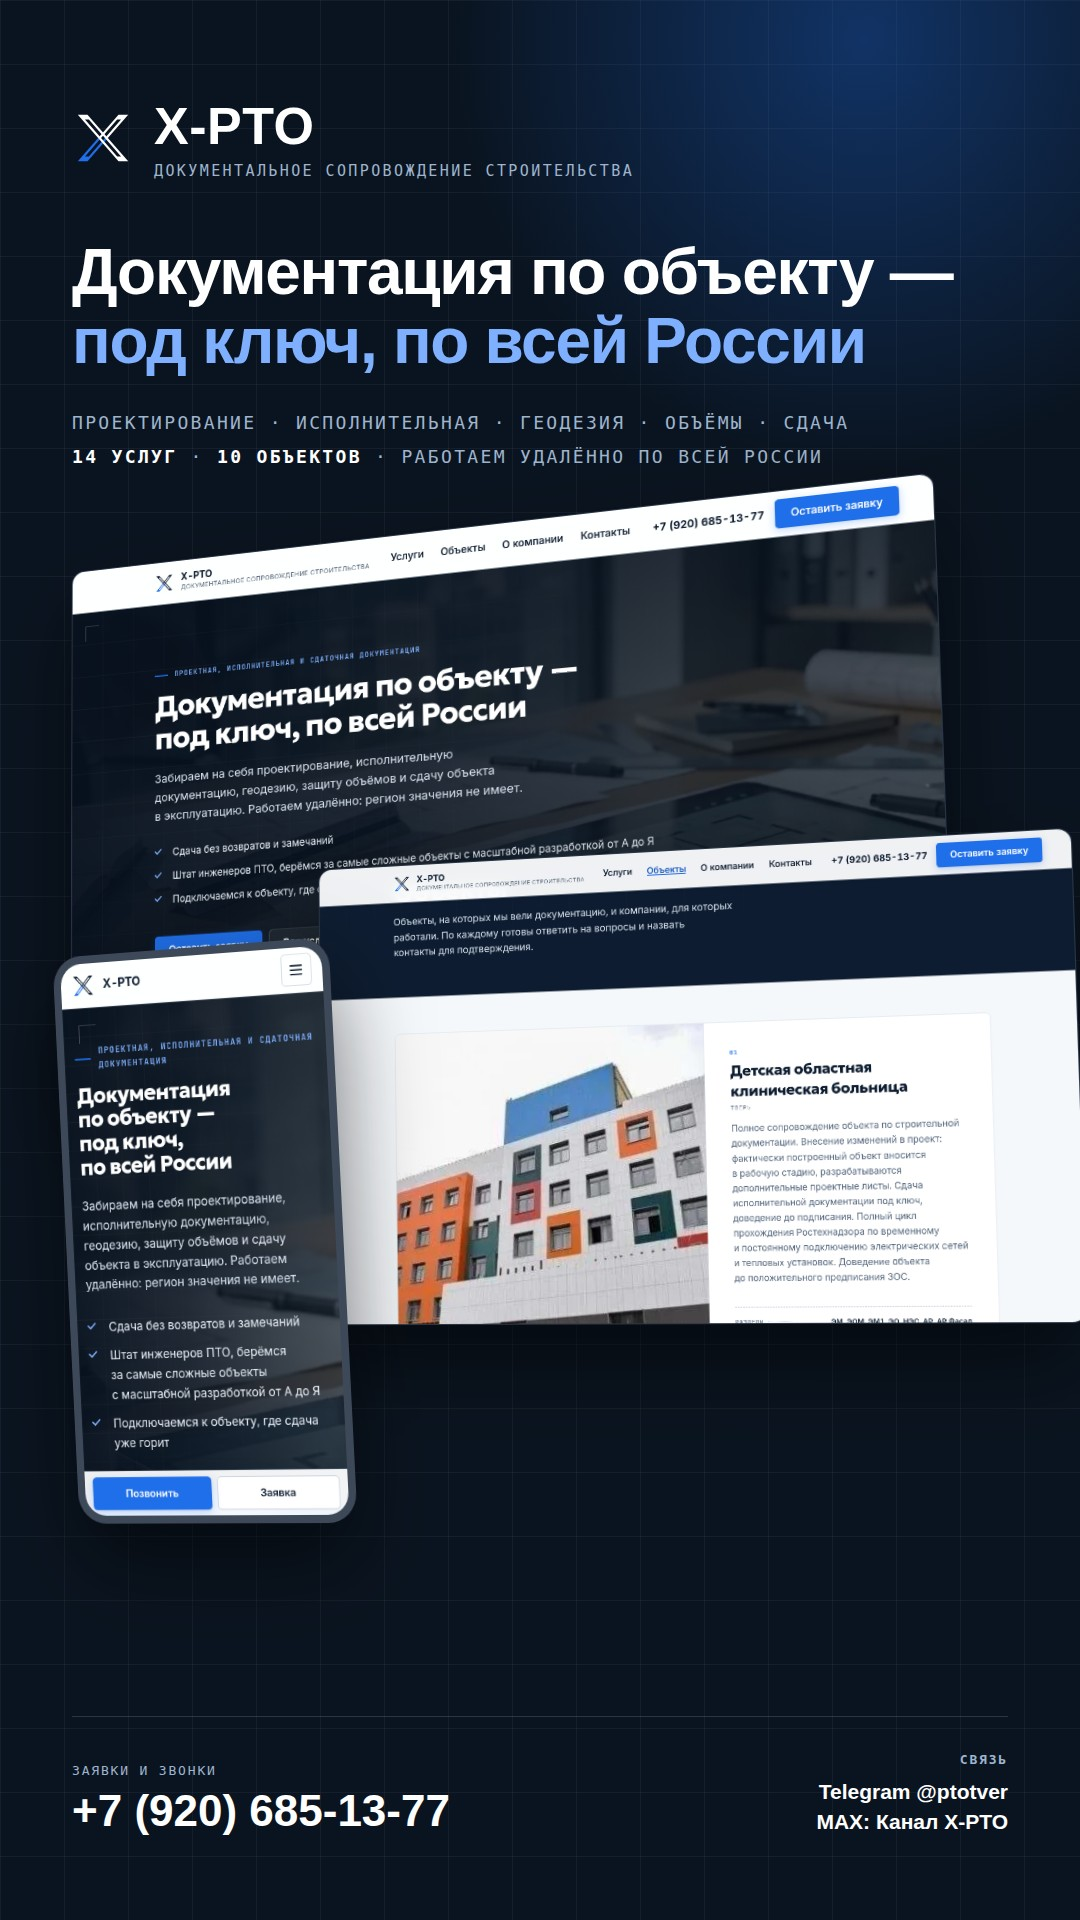
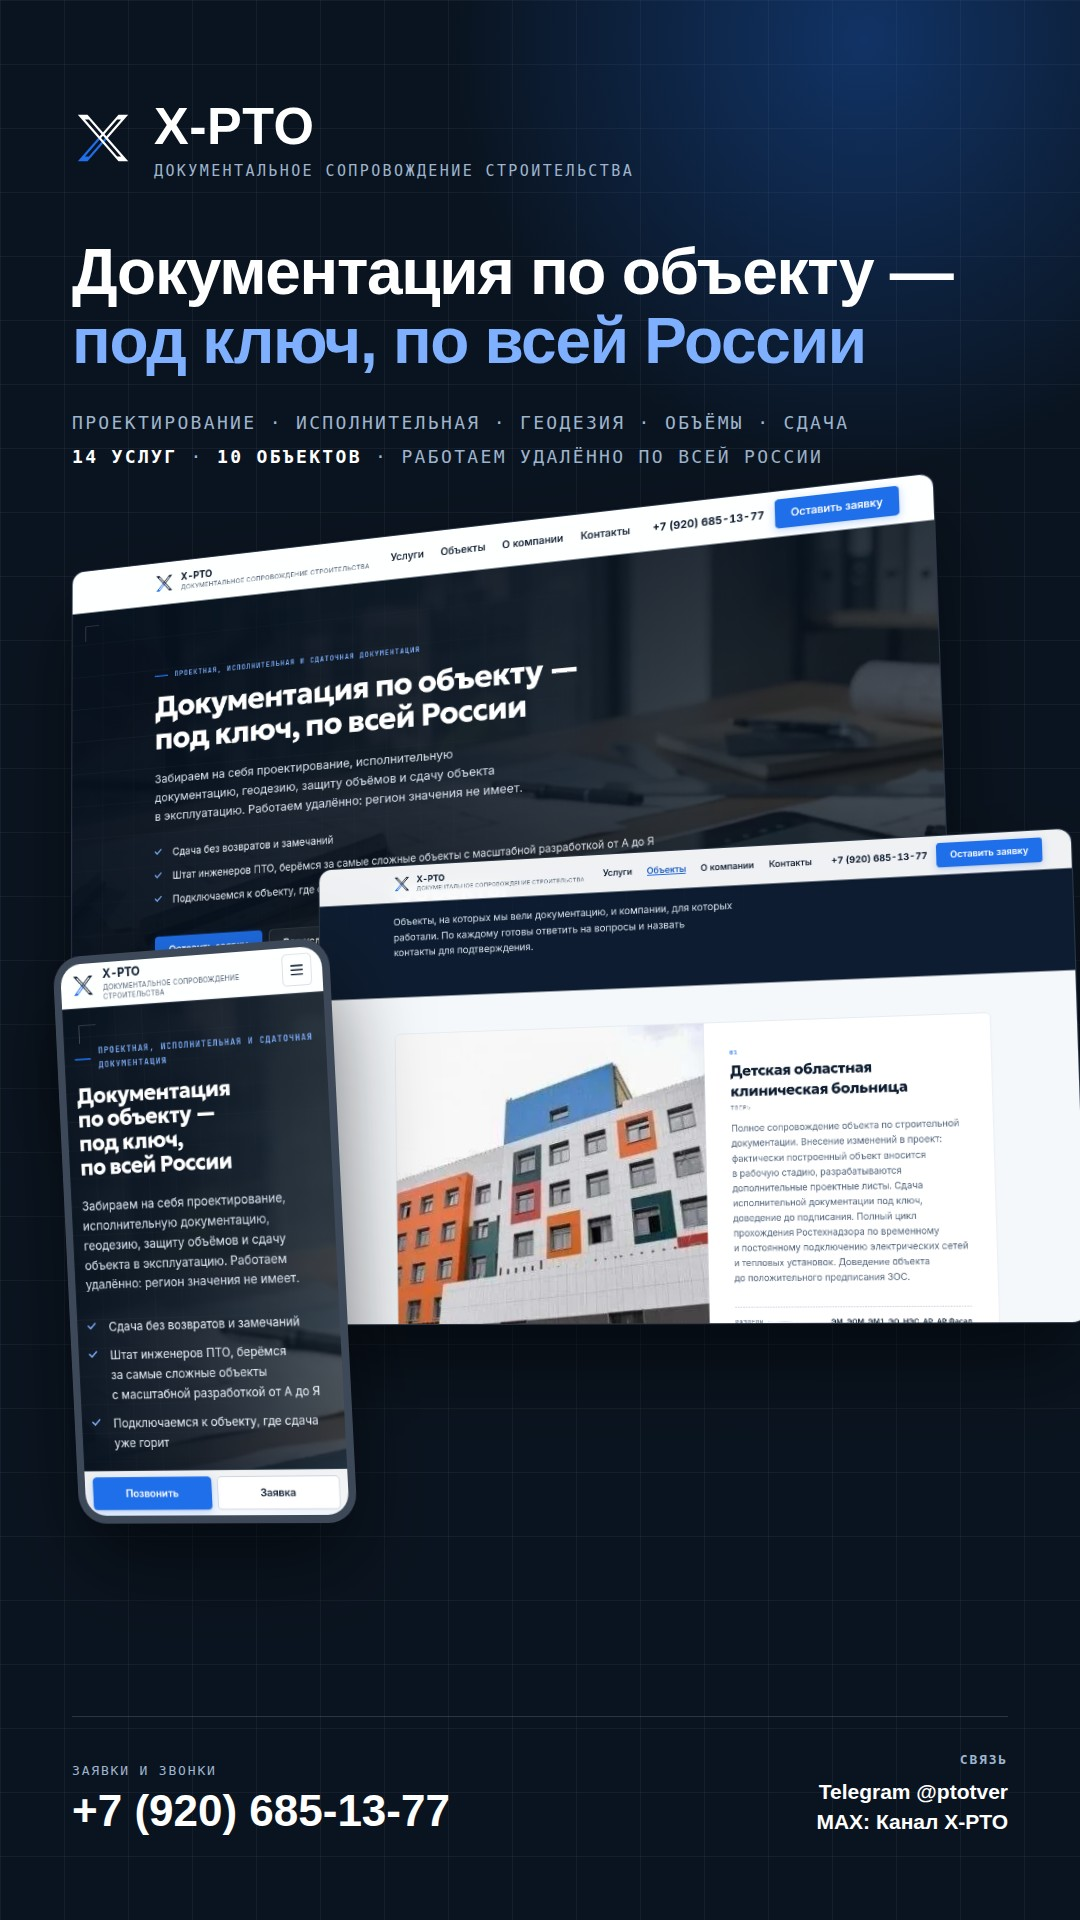
Первый экран: 89 субъектов РФ вместо 85
По действующей Конституции субъектов 89. Заказчик сначала сказал
оставить 85, затем поправился. Кадр сторис «Главная» перерисован —
на нём снимок первого экрана с этим числом.

Claude-Session: https://claude.ai/code/session_01KEthMgArrCL9xdLXpMnBrt

diff --git a/pto-site/dist/assets/promo/index.html b/pto-site/dist/assets/promo/index.html
@@ -25,26 +25,26 @@ a{color:#7fb0ff}
 Нажмите на картинку и подержите пару секунд → «Сохранить изображение».
 Размер уже готовый, 1080×1920.</p>
 <figure>
-<video src="x-pto-video.mp4?v=7" controls playsinline preload="metadata"
-poster="x-pto-1-glavnaya.jpg?v=7"></video>
+<video src="x-pto-video.mp4?v=8" controls playsinline preload="metadata"
+poster="x-pto-1-glavnaya.jpg?v=8"></video>
 <figcaption><b>Видео · 26 секунд.</b> Пролистывание сайта на телефоне,
-объекты и финальный кадр. <a href="x-pto-video.mp4?v=7" download>Скачать видео</a></figcaption>
+объекты и финальный кадр. <a href="x-pto-video.mp4?v=8" download>Скачать видео</a></figcaption>
 </figure>
-<figure><a href="x-pto-1-glavnaya.jpg?v=7"><img src="x-pto-1-glavnaya.jpg?v=7" alt="Кадр 1: Главная"></a>
+<figure><a href="x-pto-1-glavnaya.jpg?v=8"><img src="x-pto-1-glavnaya.jpg?v=8" alt="Кадр 1: Главная"></a>
 <figcaption><b>1 · Главная.</b> Первый экран сайта и объекты</figcaption></figure>
-<figure><a href="x-pto-2-uslugi.jpg?v=7"><img src="x-pto-2-uslugi.jpg?v=7" alt="Кадр 2: Услуги"></a>
+<figure><a href="x-pto-2-uslugi.jpg?v=8"><img src="x-pto-2-uslugi.jpg?v=8" alt="Кадр 2: Услуги"></a>
 <figcaption><b>2 · Услуги.</b> Четыре направления, 14 услуг</figcaption></figure>
-<figure><a href="x-pto-3-obekty.jpg?v=7"><img src="x-pto-3-obekty.jpg?v=7" alt="Кадр 3: Объекты"></a>
+<figure><a href="x-pto-3-obekty.jpg?v=8"><img src="x-pto-3-obekty.jpg?v=8" alt="Кадр 3: Объекты"></a>
 <figcaption><b>3 · Объекты.</b> Шесть объектов с фотографиями</figcaption></figure>
-<figure><a href="x-pto-4-pisma.jpg?v=7"><img src="x-pto-4-pisma.jpg?v=7" alt="Кадр 4: Письма"></a>
+<figure><a href="x-pto-4-pisma.jpg?v=8"><img src="x-pto-4-pisma.jpg?v=8" alt="Кадр 4: Письма"></a>
 <figcaption><b>4 · Письма.</b> Рекомендации и благодарность министерства</figcaption></figure>
-<figure><a href="x-pto-5-process.jpg?v=7"><img src="x-pto-5-process.jpg?v=7" alt="Кадр 5: Как мы работаем"></a>
+<figure><a href="x-pto-5-process.jpg?v=8"><img src="x-pto-5-process.jpg?v=8" alt="Кадр 5: Как мы работаем"></a>
 <figcaption><b>5 · Как мы работаем.</b> Шесть шагов от заявки до передачи</figcaption></figure>
-<figure><a href="x-pto-6-pochemu.jpg?v=7"><img src="x-pto-6-pochemu.jpg?v=7" alt="Кадр 6: Почему к нам"></a>
+<figure><a href="x-pto-6-pochemu.jpg?v=8"><img src="x-pto-6-pochemu.jpg?v=8" alt="Кадр 6: Почему к нам"></a>
 <figcaption><b>6 · Почему к нам.</b> Четыре причины возвращаться</figcaption></figure>
-<figure><a href="x-pto-7-usloviya.jpg?v=7"><img src="x-pto-7-usloviya.jpg?v=7" alt="Кадр 7: Условия"></a>
+<figure><a href="x-pto-7-usloviya.jpg?v=8"><img src="x-pto-7-usloviya.jpg?v=8" alt="Кадр 7: Условия"></a>
 <figcaption><b>7 · Условия.</b> Договор с фиксированной ценой</figcaption></figure>
-<figure><a href="x-pto-8-zayavka.jpg?v=7"><img src="x-pto-8-zayavka.jpg?v=7" alt="Кадр 8: Заявка"></a>
+<figure><a href="x-pto-8-zayavka.jpg?v=8"><img src="x-pto-8-zayavka.jpg?v=8" alt="Кадр 8: Заявка"></a>
 <figcaption><b>8 · Заявка.</b> Форма и режим работы — закрывающий кадр</figcaption></figure>
 </div>
 </html>

diff --git a/pto-site/assets/promo/index.html b/pto-site/assets/promo/index.html
@@ -26,34 +26,34 @@
      Размер уже готовый, 1080×1920.</p>
 
   <figure>
-    <video src="x-pto-video.mp4?v=7" controls playsinline preload="metadata"
-           poster="x-pto-1-glavnaya.jpg?v=7"></video>
+    <video src="x-pto-video.mp4?v=8" controls playsinline preload="metadata"
+           poster="x-pto-1-glavnaya.jpg?v=8"></video>
     <figcaption><b>Видео · 26 секунд.</b> Пролистывание сайта на телефоне,
-      объекты и финальный кадр. <a href="x-pto-video.mp4?v=7" download>Скачать видео</a></figcaption>
+      объекты и финальный кадр. <a href="x-pto-video.mp4?v=8" download>Скачать видео</a></figcaption>
   </figure>
 
-  <figure><a href="x-pto-1-glavnaya.jpg?v=7"><img src="x-pto-1-glavnaya.jpg?v=7" alt="Кадр 1: Главная"></a>
+  <figure><a href="x-pto-1-glavnaya.jpg?v=8"><img src="x-pto-1-glavnaya.jpg?v=8" alt="Кадр 1: Главная"></a>
     <figcaption><b>1 · Главная.</b> Первый экран сайта и объекты</figcaption></figure>
 
-  <figure><a href="x-pto-2-uslugi.jpg?v=7"><img src="x-pto-2-uslugi.jpg?v=7" alt="Кадр 2: Услуги"></a>
+  <figure><a href="x-pto-2-uslugi.jpg?v=8"><img src="x-pto-2-uslugi.jpg?v=8" alt="Кадр 2: Услуги"></a>
     <figcaption><b>2 · Услуги.</b> Четыре направления, 14 услуг</figcaption></figure>
 
-  <figure><a href="x-pto-3-obekty.jpg?v=7"><img src="x-pto-3-obekty.jpg?v=7" alt="Кадр 3: Объекты"></a>
+  <figure><a href="x-pto-3-obekty.jpg?v=8"><img src="x-pto-3-obekty.jpg?v=8" alt="Кадр 3: Объекты"></a>
     <figcaption><b>3 · Объекты.</b> Шесть объектов с фотографиями</figcaption></figure>
 
-  <figure><a href="x-pto-4-pisma.jpg?v=7"><img src="x-pto-4-pisma.jpg?v=7" alt="Кадр 4: Письма"></a>
+  <figure><a href="x-pto-4-pisma.jpg?v=8"><img src="x-pto-4-pisma.jpg?v=8" alt="Кадр 4: Письма"></a>
     <figcaption><b>4 · Письма.</b> Рекомендации и благодарность министерства</figcaption></figure>
 
-  <figure><a href="x-pto-5-process.jpg?v=7"><img src="x-pto-5-process.jpg?v=7" alt="Кадр 5: Как мы работаем"></a>
+  <figure><a href="x-pto-5-process.jpg?v=8"><img src="x-pto-5-process.jpg?v=8" alt="Кадр 5: Как мы работаем"></a>
     <figcaption><b>5 · Как мы работаем.</b> Шесть шагов от заявки до передачи</figcaption></figure>
 
-  <figure><a href="x-pto-6-pochemu.jpg?v=7"><img src="x-pto-6-pochemu.jpg?v=7" alt="Кадр 6: Почему к нам"></a>
+  <figure><a href="x-pto-6-pochemu.jpg?v=8"><img src="x-pto-6-pochemu.jpg?v=8" alt="Кадр 6: Почему к нам"></a>
     <figcaption><b>6 · Почему к нам.</b> Четыре причины возвращаться</figcaption></figure>
 
-  <figure><a href="x-pto-7-usloviya.jpg?v=7"><img src="x-pto-7-usloviya.jpg?v=7" alt="Кадр 7: Условия"></a>
+  <figure><a href="x-pto-7-usloviya.jpg?v=8"><img src="x-pto-7-usloviya.jpg?v=8" alt="Кадр 7: Условия"></a>
     <figcaption><b>7 · Условия.</b> Договор с фиксированной ценой</figcaption></figure>
 
-  <figure><a href="x-pto-8-zayavka.jpg?v=7"><img src="x-pto-8-zayavka.jpg?v=7" alt="Кадр 8: Заявка"></a>
+  <figure><a href="x-pto-8-zayavka.jpg?v=8"><img src="x-pto-8-zayavka.jpg?v=8" alt="Кадр 8: Заявка"></a>
     <figcaption><b>8 · Заявка.</b> Форма и режим работы — закрывающий кадр</figcaption></figure>
 </div>
 </html>

diff --git a/pto-site/dist/index.html b/pto-site/dist/index.html
@@ -106,7 +106,7 @@ data-src="/assets/media/hero.webm|/assets/media/hero.mp4" data-src-mobile="/asse
 <div class="hero__spec-label">направлений документации: от стадии «П» до ЗОС</div>
 </div>
 <div class="hero__spec-item">
-<div class="hero__spec-value">85<span class="hero__spec-unit">РФ</span></div>
+<div class="hero__spec-value">89<span class="hero__spec-unit">РФ</span></div>
 <div class="hero__spec-label">субъектов РФ — география не ограничена</div>
 </div>
 <div class="hero__spec-item">

diff --git a/CLAUDE.md b/CLAUDE.md
@@ -695,9 +695,9 @@
   настоящий файл с настройками заявок — форма молча переставала отправлять.
   `check_browser.py` не считает 404 на `config.js` ошибкой — только на нём.
 
-  **«85 субъектов РФ» на первом экране — решение заказчика.** На аудите
-  перед запуском было замечено, что по действующей Конституции субъектов 89;
-  заказчик выбрал оставить 85. Не менять и не поднимать вопрос заново.
+  **«89 субъектов РФ» на первом экране** — по действующей Конституции.
+  Стояло 85; на аудите перед запуском заказчик сначала сказал оставить,
+  затем поправился: 89.
 
   **Числа словами считаются по данным** (`number_word()`): «Тринадцать
   направлений» на странице услуг простояло, когда их было четырнадцать.

diff --git a/pto-site/README.md b/pto-site/README.md
@@ -408,7 +408,7 @@ ffmpeg -i hero.mp4 -vf scale=720:-2 -an -c:v libx264 -crf 30 -preset slow \
 | Что | Где |
 |---|---|
 | Первый экран поднимается при загрузке | главная, `style.css`, блок «Появление первого экрана» |
-| Цифры 13 / 85 / 1 «прокручиваются» от нуля | `app.js`, раздел 0в |
+| Цифры 14 / 89 / 1 «прокручиваются» от нуля | `app.js`, раздел 0в |
 | Блоки проявляются при прокрутке | `app.js`, раздел 0б + `style.css`, раздел 13 |
 | Фото объекта приближается под курсором | `style.css`, `.object__media::before` |
 | Линия этапа дотягивается до конца | `style.css`, `.step:hover::after` |
